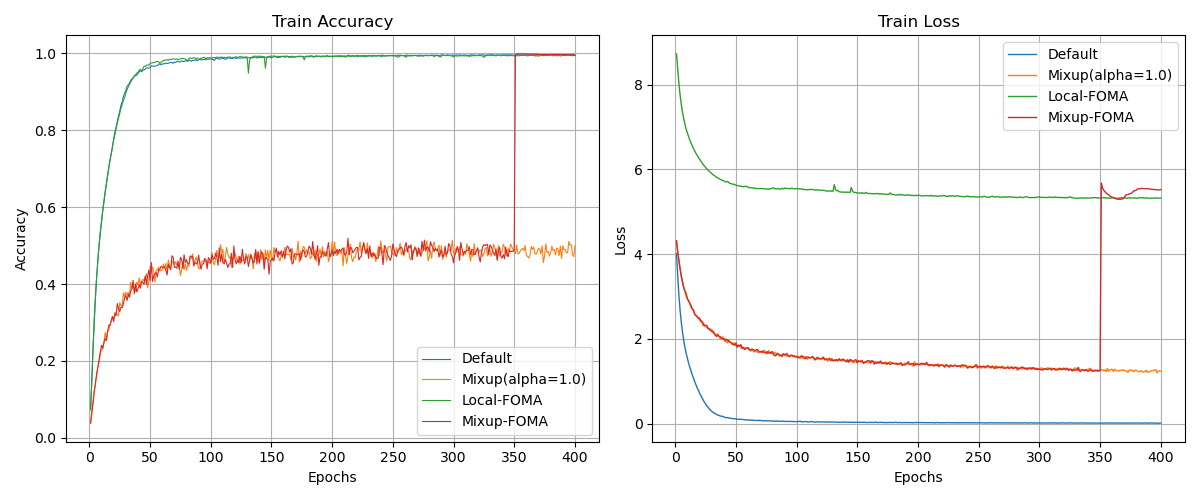
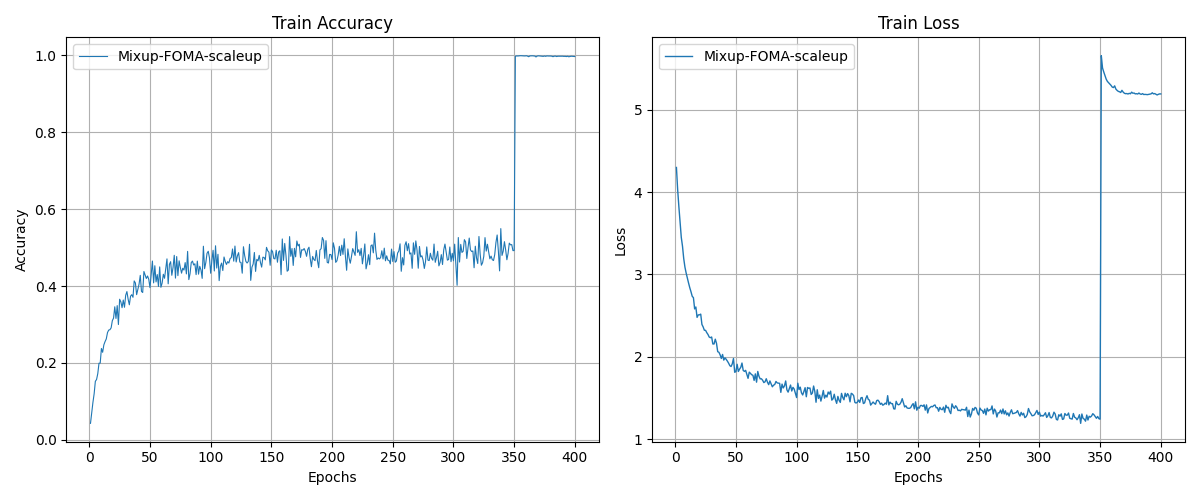
mixup-foma scaleup result

diff --git a/result.py b/result.py
@@ -6,7 +6,7 @@ import matplotlib.pyplot as plt
 
 def main():
     parser = argparse.ArgumentParser()
-    parser.add_argument("--iteration",  type=int, default=3)
+    parser.add_argument("--iteration",  type=int, default=1)
     parser.add_argument("--epochs",     type=int, default=400)
     parser.add_argument("--data_type",  type=str, default="cifar100",          choices=["stl10", "cifar100", "cifar10"])
     parser.add_argument("--model_type", type=str, default="wide_resnet_28_10", choices=["resnet18", "resnet101", "wide_resnet_28_10"])
@@ -18,13 +18,14 @@ def main():
     model_type = args.model_type
     
     augmentations = [
-        "Default",
-        "Mixup",
+        # "Default",
+        # "Mixup",
         # "Manifold-Mixup",
         # "CutMix",
         # "RegMixup",
-        "Local-FOMA",
-        "Mixup-FOMA",
+        # "Local-FOMA",
+        # "Mixup-FOMA",
+        "Mixup-FOMA-scaleup"
 
         # "Original",
         # "PCA",
